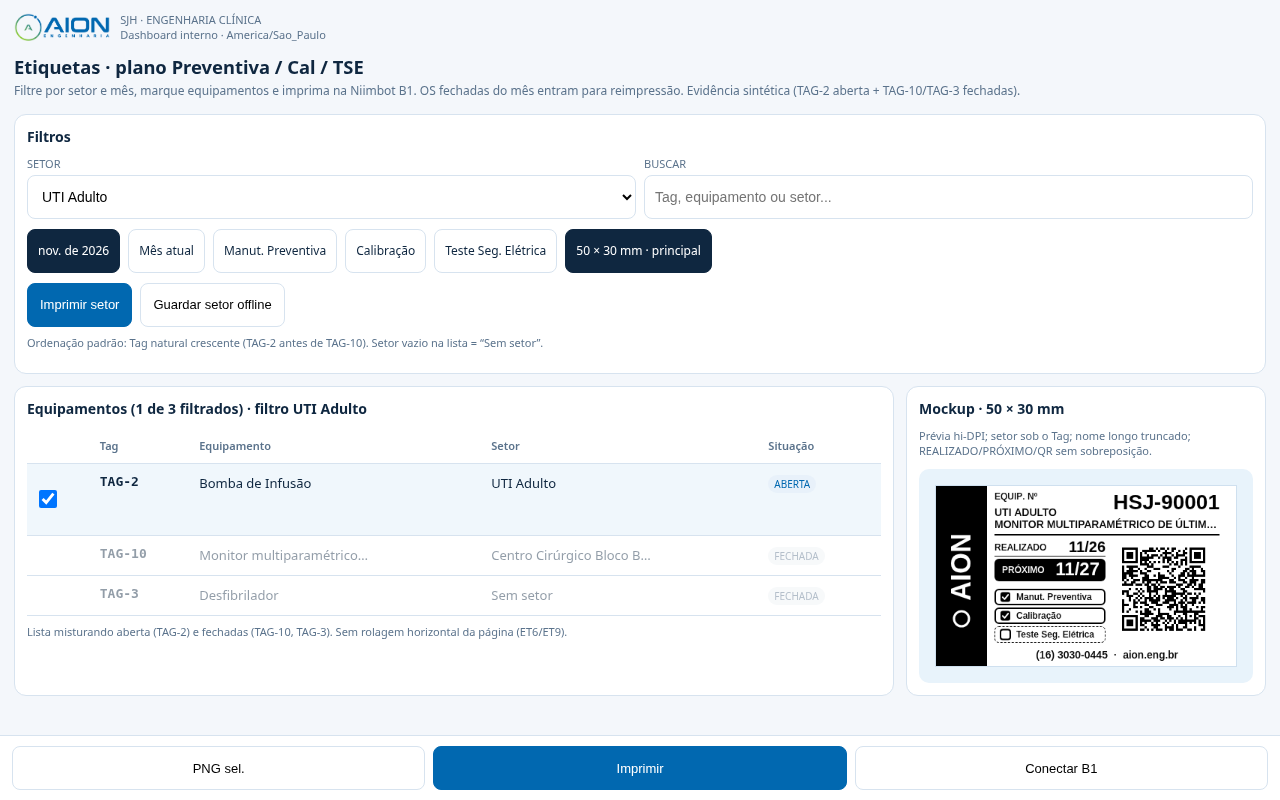
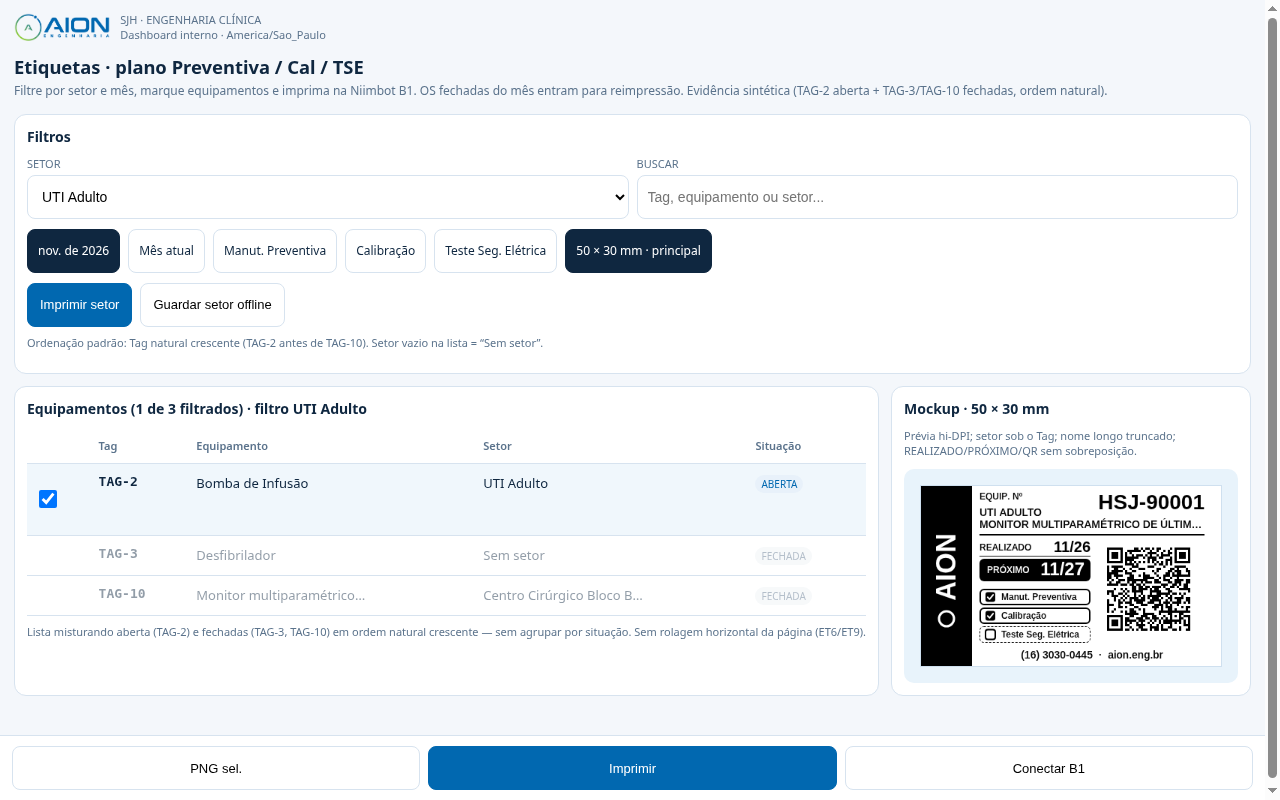
fix(etiquetas): ciclo 2 — mock TAG-2/3/10 + teste lista mista (PR #22)
Corrige viewport-mock e regenera 800×1280/1280×800 em ordem natural
(TAG-2, TAG-3, TAG-10). Cobre abertas+fechadas misturadas sem agrupar
por situação; sort em tipos.ts permanece.

diff --git a/lib/etiquetas/agregar-plano.test.ts b/lib/etiquetas/agregar-plano.test.ts
@@ -379,6 +379,87 @@ describe("compareTagNatural / setor na etiqueta (E7–E9)", () => {
     assert.deepEqual(tags, ["ZZTESTE-TAG-1", "ZZTESTE-TAG-2", "ZZTESTE-TAG-10"]);
   });
 
+  it("lista mista abertas/fechadas: ordem natural TAG-2, TAG-3, TAG-10 (não agrupa por situação)", () => {
+    // Entrada de propósito fora de ordem (TAG-10 antes de TAG-3) e com aberta no meio.
+    const itens: OsParaEtiqueta[] = [
+      os({
+        OS: "10",
+        Tag: "TAG-10",
+        Oficina: "PREVENTIVA EQUIPAMENTOS",
+        Abertura: "01/11/2026 08:00:00",
+        Fechamento: "12/11/2026 16:00:00",
+        SituacaoDaOS: "FECHADA",
+      }),
+      os({
+        OS: "2",
+        Tag: "TAG-2",
+        Oficina: "PREVENTIVA EQUIPAMENTOS",
+        Abertura: "05/11/2026 08:00:00",
+        SituacaoDaOS: "ABERTA",
+      }),
+      os({
+        OS: "3",
+        Tag: "TAG-3",
+        Oficina: "PREVENTIVA EQUIPAMENTOS",
+        Abertura: "02/11/2026 08:00:00",
+        Fechamento: "10/11/2026 12:00:00",
+        SituacaoDaOS: "FECHADA",
+      }),
+    ];
+    const rows = agregarEtiquetasPlano(itens, { monthKeys: ["2026-11"] });
+    assert.deepEqual(
+      rows.map((r) => r.tag),
+      ["TAG-2", "TAG-3", "TAG-10"],
+      "não TAG-2, TAG-10, TAG-3 (fechadas em ordem lexical)",
+    );
+    assert.equal(rows[0]!.osPorPlano.preventiva?.situacao, "ABERTA");
+    assert.equal(rows[1]!.osPorPlano.preventiva?.situacao, "FECHADA");
+    assert.equal(rows[2]!.osPorPlano.preventiva?.situacao, "FECHADA");
+
+    // Mesma regra da view (sortKey=tag default): reordenar lista misturada sem agrupar por situação.
+    const reshuffled = [rows[2]!, rows[0]!, rows[1]!]; // TAG-10, TAG-2, TAG-3
+    reshuffled.sort((a, b) => compareTagNatural(a.tag, b.tag));
+    assert.deepEqual(
+      reshuffled.map((r) => r.tag),
+      ["TAG-2", "TAG-3", "TAG-10"],
+    );
+
+    // Contraprova forte: se TAG-10 fosse a aberta, agrupar abertas primeiro daria
+    // TAG-10, TAG-2, TAG-3 — a ordem natural continua TAG-2, TAG-3, TAG-10.
+    const itensAbertaAlta: OsParaEtiqueta[] = [
+      os({
+        OS: "20",
+        Tag: "TAG-10",
+        Oficina: "PREVENTIVA EQUIPAMENTOS",
+        Abertura: "05/11/2026 08:00:00",
+        SituacaoDaOS: "ABERTA",
+      }),
+      os({
+        OS: "21",
+        Tag: "TAG-2",
+        Oficina: "PREVENTIVA EQUIPAMENTOS",
+        Abertura: "01/11/2026 08:00:00",
+        Fechamento: "08/11/2026 16:00:00",
+        SituacaoDaOS: "FECHADA",
+      }),
+      os({
+        OS: "22",
+        Tag: "TAG-3",
+        Oficina: "PREVENTIVA EQUIPAMENTOS",
+        Abertura: "02/11/2026 08:00:00",
+        Fechamento: "09/11/2026 12:00:00",
+        SituacaoDaOS: "FECHADA",
+      }),
+    ];
+    const rows2 = agregarEtiquetasPlano(itensAbertaAlta, { monthKeys: ["2026-11"] });
+    assert.deepEqual(
+      rows2.map((r) => r.tag),
+      ["TAG-2", "TAG-3", "TAG-10"],
+      "aberta no fim da ordem natural — não sobe por situação",
+    );
+    assert.equal(rows2[2]!.osPorPlano.preventiva?.situacao, "ABERTA");
+  });
+
   it("E8: setorListaLabel mapeia vazio para Sem setor", () => {
     assert.equal(setorListaLabel(""), SETOR_VAZIO_LABEL);
     assert.equal(setorListaLabel("  "), SETOR_VAZIO_LABEL);

diff --git a/docs/evidencias/etiquetas-reimpressao-os-fechadas/viewport-mock.html b/docs/evidencias/etiquetas-reimpressao-os-fechadas/viewport-mock.html
@@ -50,7 +50,7 @@
       </div>
     </header>
     <h1>Etiquetas · plano Preventiva / Cal / TSE</h1>
-    <p class="sub">Filtre por setor e mês, marque equipamentos e imprima na Niimbot B1. OS fechadas do mês entram para reimpressão. Evidência sintética (TAG-2 aberta + TAG-10/TAG-3 fechadas).</p>
+    <p class="sub">Filtre por setor e mês, marque equipamentos e imprima na Niimbot B1. OS fechadas do mês entram para reimpressão. Evidência sintética (TAG-2 aberta + TAG-3/TAG-10 fechadas, ordem natural).</p>
 
     <div class="card">
       <h2>Filtros</h2>
@@ -101,21 +101,21 @@
             </tr>
             <tr style="opacity:.45">
               <td></td>
-              <td class="tag">TAG-10</td>
-              <td>Monitor multiparamétrico…</td>
-              <td>Centro Cirúrgico Bloco B…</td>
-              <td><span class="badge fechada">FECHADA</span></td>
-            </tr>
-            <tr style="opacity:.45">
-              <td></td>
               <td class="tag">TAG-3</td>
               <td>Desfibrilador</td>
               <td>Sem setor</td>
               <td><span class="badge fechada">FECHADA</span></td>
             </tr>
+            <tr style="opacity:.45">
+              <td></td>
+              <td class="tag">TAG-10</td>
+              <td>Monitor multiparamétrico…</td>
+              <td>Centro Cirúrgico Bloco B…</td>
+              <td><span class="badge fechada">FECHADA</span></td>
+            </tr>
           </tbody>
         </table>
-        <p class="note">Lista misturando aberta (TAG-2) e fechadas (TAG-10, TAG-3). Sem rolagem horizontal da página (ET6/ET9).</p>
+        <p class="note">Lista misturando aberta (TAG-2) e fechadas (TAG-3, TAG-10) em ordem natural crescente — sem agrupar por situação. Sem rolagem horizontal da página (ET6/ET9).</p>
       </div>
       <div class="card">
         <h2>Mockup · 50 × 30 mm</h2>
